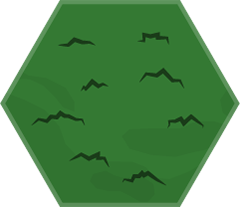
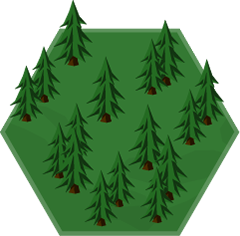
new forest hex

Changed region(s): [[0.0, 0.0, 1.0, 1.0], [0.7583, 0.9275, 0.7875, 0.9565]]

diff --git a/js/pixi.js b/js/pixi.js
@@ -49,7 +49,7 @@ loader
 		{name:'hex_forest_1', url:'img/hex_forest_1.png'},
 		{name:'hex_forest_2', url:'img/hex_forest_2.png'},
 		{name:'hex_forest_3', url:'img/hex_forest_3.png'},
-		{name:'hex_forest_4', url:'img/hex_forest_4.png'},
+		// {name:'hex_forest_4', url:'img/hex_forest_4.png'},
 		{name:'hex_grass_1', url:'img/hex_grass_1.png'},
 		{name:'hex_grass_2', url:'img/hex_grass_2.png'},
 		{name:'hex_grass_3', url:'img/hex_grass_3.png'},
@@ -1305,8 +1305,8 @@ function setup(){
 					mapTile = new PIXI.Sprite(resources['hex_bamboo_' + randTile].texture);
 					break;
 				case 5:
-					// mapTile = new PIXI.Sprite(resources['hex_forest_' + randTile].texture);
-					mapTile = new PIXI.Sprite(resources['hex_forest_4'].texture);
+					mapTile = new PIXI.Sprite(resources['hex_forest_' + randTile].texture);
+					// mapTile = new PIXI.Sprite(resources['hex_forest_4'].texture);
 					break;
 				case 6:
 					mapTile = new PIXI.Sprite(resources['hex_hill_' + randTile].texture);
